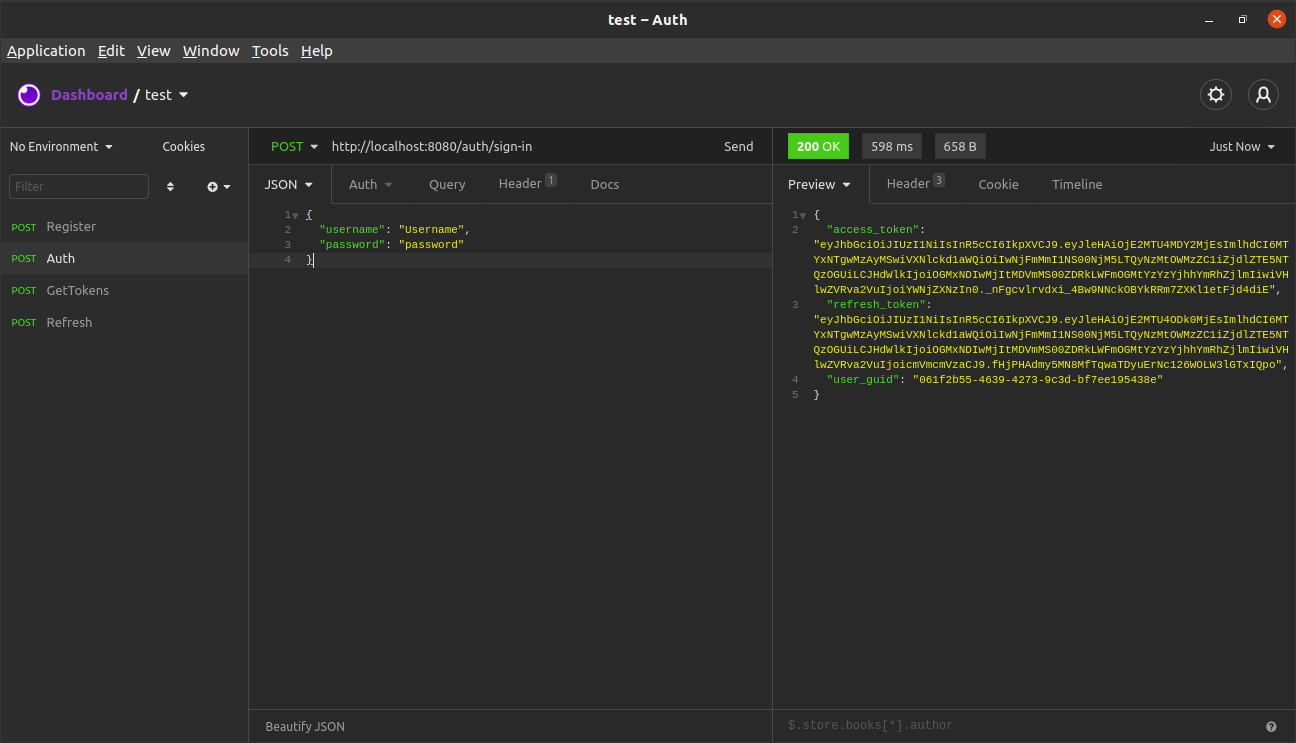
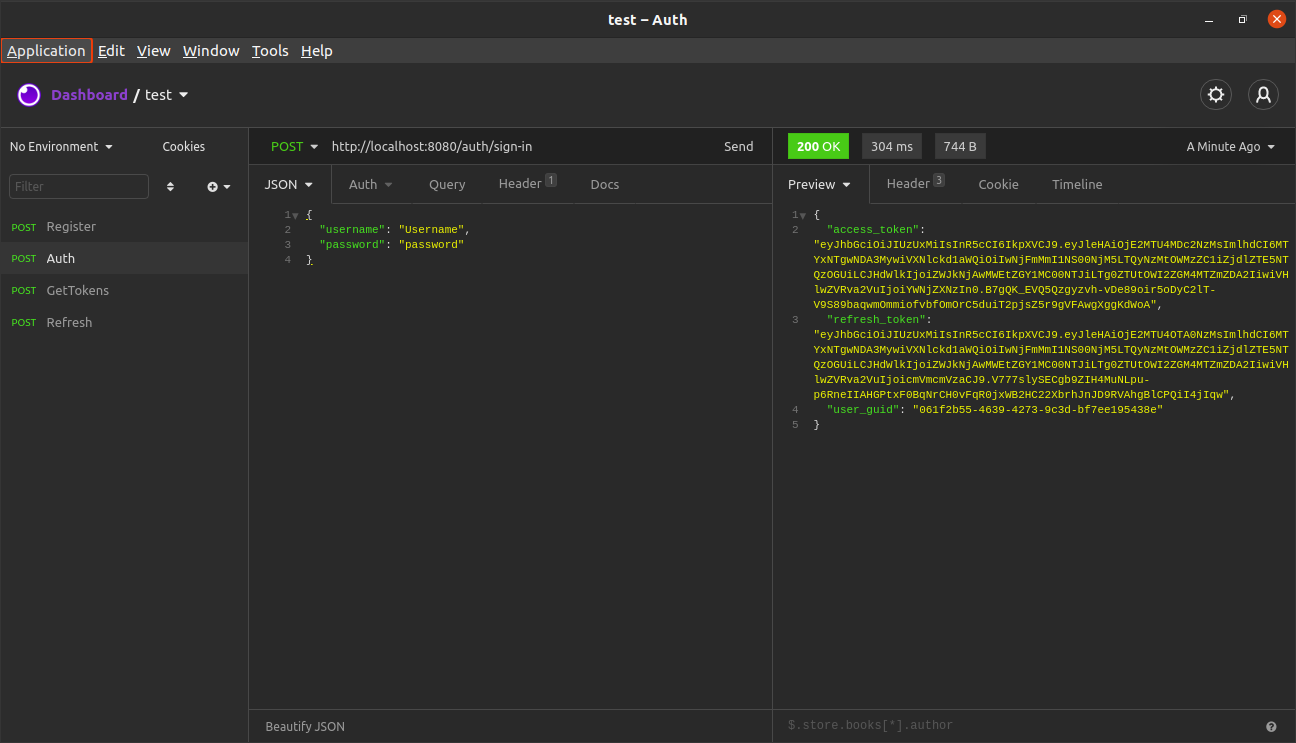
third commit

Changed region(s): [[0.6173, 0.3405, 1.0, 0.5572], [0.9259, 0.1857, 0.9877, 0.2167], [0.6481, 0.3405, 0.679, 0.3715]]

diff --git a/pkg/service/tokens.go b/pkg/service/tokens.go
@@ -44,7 +44,7 @@ func (s *TokensService) GenerateTokens(userGuid string) ([]string, error) {
 
 	guidTokenPaire := uuid.New().String()
 
-	generateAccessToken := jwt.NewWithClaims(jwt.SigningMethodHS256, &tokenClaims{
+	generateAccessToken := jwt.NewWithClaims(jwt.SigningMethodHS512, &tokenClaims{
 		jwt.StandardClaims{
 			ExpiresAt: time.Now().Add(viper.GetDuration("tokens.access.ttl") * time.Hour).Unix(),
 			IssuedAt:  time.Now().Unix(),
@@ -59,7 +59,7 @@ func (s *TokensService) GenerateTokens(userGuid string) ([]string, error) {
 		return nil, accessErr
 	}
 
-	generateRefreshToken := jwt.NewWithClaims(jwt.SigningMethodHS256, &tokenClaims{
+	generateRefreshToken := jwt.NewWithClaims(jwt.SigningMethodHS512, &tokenClaims{
 		jwt.StandardClaims{
 			ExpiresAt: time.Now().Add(viper.GetDuration("tokens.refresh.ttl") * time.Hour).Unix(),
 			IssuedAt:  time.Now().Unix(),
